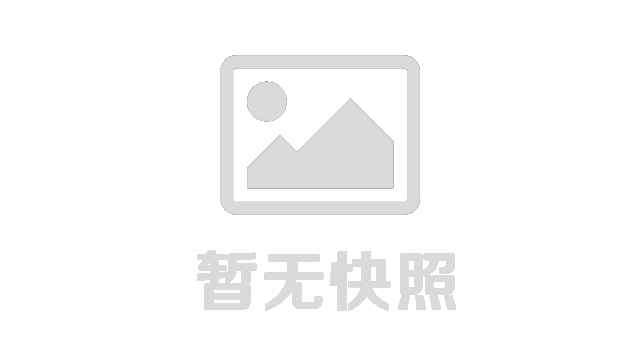
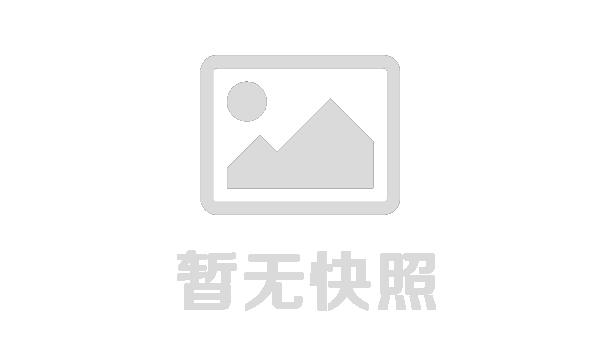
优化了云监控和云录播的默认快照，前端都用snap.png；

diff --git a/htdocs/wxapi/Tpl/default/Home/play.htm b/htdocs/wxapi/Tpl/default/Home/play.htm
@@ -33,13 +33,14 @@
         <div id="video-gallery" class="royalSlider videoGallery rsDefault">
           <volist name="my_play" id="vo">
           <notempty name='vo.record_id'>
-          <a class="rsImg rsHide" data-clicks="{{$vo.clicks}}" data-rsVideo="{{:__APP__}}/Home/show/type/vod/record_id/{{$vo.record_id}}" href="{{$my_web_tracker}}{{$vo.image_fdfs}}">
+          <a class="rsImg rsHide" data-clicks="{{$vo.clicks}}" data-rsVideo="{{:__APP__}}/Home/show/type/vod/record_id/{{$vo.record_id}}"  
+             <empty name='vo.image_fdfs'>href="/wxapi/public/images/snap.png"<else/>href="{{$my_web_tracker}}{{$vo.image_fdfs}}"</empty> >
             <div class="rsTmb">
               <div class="serial">
                 <span class="fa fa-play"></span>
               </div>
               <div class="cover">
-                <img src="{{$my_web_tracker}}{{$vo.image_fdfs}}_90x50" onerror="doErrVod();">
+                <img src="{{$my_web_tracker}}{{$vo.image_fdfs}}_90x50" onerror="doErrSnap();">
                 <span class="c-time"><i class="bg"></i><span>{{$vo.disptime}}</span></span>
               </div>
               <div class="headline">{{$vo.grade_type}}&nbsp;{{$vo.grade_name}}&nbsp;{{$vo.camera_name}}&nbsp;{{$vo.teacher_name}}&nbsp;{{$vo.title_name}}&nbsp;{{$vo.created}}</div>
@@ -49,13 +50,14 @@
             </div>
           </a>
           <else/>
-          <a class="rsImg rsHide" data-rsVideo="{{:__APP__}}/Home/show/type/live/camera_id/{{$vo.camera_id}}" href="{{$vo.image_snap}}">
+          <a class="rsImg rsHide" data-rsVideo="{{:__APP__}}/Home/show/type/live/camera_id/{{$vo.camera_id}}"
+             <empty name='vo.image_fdfs'>href="/wxapi/public/images/snap.png"<else/>href="{{$my_web_tracker}}{{$vo.image_fdfs}}"</empty> >
             <div class="rsTmb">
               <div class="serial">
                 <span class="fa fa-play"></span>
               </div>
               <div class="cover">
-                <img src="{{$my_web_tracker}}{{$vo.image_fdfs}}_90x50" onerror="doErrLive();">
+                <img src="{{$my_web_tracker}}{{$vo.image_fdfs}}_90x50" onerror="doErrSnap();">
               </div>
               <div class="headline">
                 {{$vo.school_name}} - {{$vo.grade_type}}&nbsp;{{$vo.grade_name}}&nbsp;{{$vo.camera_name}} - 
@@ -92,15 +94,8 @@
 
 <script>
 
-// 处理点播缩略图无法加载的问题...
-function doErrVod() {
-  var img = event.srcElement; // 获取事件对象...
-  img.src  = "/wxapi/public/images/default-90.png"; 
-  img.onerror = null; // 控制不要一直跳动
-}
-
-// 处理直播缩略图无法加载的问题...
-function doErrLive() {
+// 处理点播、直播缩略图无法加载的问题...
+function doErrSnap() {
   var img = event.srcElement; // 获取事件对象...
   img.src  = "/wxapi/public/images/snap.png"; 
   img.onerror = null; // 控制不要一直跳动

diff --git a/monitor/wxapi/Tpl/default/Monitor/play.htm b/monitor/wxapi/Tpl/default/Monitor/play.htm
@@ -73,13 +73,14 @@
         <div id="video-gallery" class="royalSlider videoGallery rsDefault">
           <volist name="my_play" id="vo">
           <notempty name='vo.record_id'>
-          <a class="rsImg rsHide" data-rsVideo="{{:__APP__}}/Monitor/show/type/vod/record_id/{{$vo.record_id}}" href="{{$my_web_tracker}}{{$vo.image_fdfs}}">
+          <a class="rsImg rsHide" data-rsVideo="{{:__APP__}}/Monitor/show/type/vod/record_id/{{$vo.record_id}}" 
+             <empty name='vo.image_fdfs'>href="/wxapi/public/images/snap.png"<else/>href="{{$my_web_tracker}}{{$vo.image_fdfs}}"</empty> >
             <div class="rsTmb">
               <div class="serial">
                 <span class="fa fa-play"></span>
               </div>
               <div class="cover">
-                <img src="{{$my_web_tracker}}{{$vo.image_fdfs}}_90x50" onerror="doErrVod();">
+                <img src="{{$my_web_tracker}}{{$vo.image_fdfs}}_90x50" onerror="doErrSnap();">
                 <span class="c-time"><i class="bg"></i><span>{{$vo.disptime}}</span></span>
               </div>
               <div class="headline">{{$vo.created}}</div>
@@ -92,13 +93,14 @@
             </div>
           </a>
           <else/>
-          <a class="rsImg rsHide" data-rsVideo="{{:__APP__}}/Monitor/show/type/live/camera_id/{{$vo.camera_id}}" href="{{$vo.image_snap}}">
+          <a class="rsImg rsHide" data-rsVideo="{{:__APP__}}/Monitor/show/type/live/camera_id/{{$vo.camera_id}}" 
+             <empty name='vo.image_fdfs'>href="/wxapi/public/images/snap.png"<else/>href="{{$my_web_tracker}}{{$vo.image_fdfs}}"</empty> >
             <div class="rsTmb">
               <div class="serial">
                 <span class="fa fa-play"></span>
               </div>
               <div class="cover">
-                <img src="{{$my_web_tracker}}{{$vo.image_fdfs}}_90x50" onerror="doErrLive();">
+                <img src="{{$my_web_tracker}}{{$vo.image_fdfs}}_90x50" onerror="doErrSnap();">
               </div>
               <div class="headline">
               通道{{$vo.camera_id}} - 
@@ -145,15 +147,8 @@
 // 获取网站地址...
 var siteurl="{{:__APP__}}";
 
-// 处理点播缩略图无法加载的问题...
-function doErrVod() {
-  var img = event.srcElement; // 获取事件对象...
-  img.src  = "/wxapi/public/images/default-90.png"; 
-  img.onerror = null; // 控制不要一直跳动
-}
-
-// 处理直播缩略图无法加载的问题...
-function doErrLive() {
+// 处理直播、点播缩略图无法加载的问题...
+function doErrSnap() {
   var img = event.srcElement; // 获取事件对象...
   img.src  = "/wxapi/public/images/snap.png"; 
   img.onerror = null; // 控制不要一直跳动

diff --git a/monitor/wxapi/Tpl/default/Monitor/index.htm b/monitor/wxapi/Tpl/default/Monitor/index.htm
@@ -66,7 +66,7 @@ layui.use(['flow','layer'], function(){
           // 分页单独懒加载，否则，每次都要全部懒加载...
           $("#page_"+page+" img.lazy").lazyload({
             effect : "fadeIn",
-            placeholder: "/wxapi/public/images/default.png"
+            placeholder: "/wxapi/public/images/snap.png"
           });
         },
         error: function(XMLHttpRequest, textStatus, errorThrown) {

diff --git a/htdocs/wxapi/Tpl/default/Home/index.htm b/htdocs/wxapi/Tpl/default/Home/index.htm
@@ -77,7 +77,7 @@ $(document).ready( function () {
   $(function() {
     $("img.lazy").lazyload({
       effect : "fadeIn",
-      placeholder: "/wxapi/public/images/default.png"
+      placeholder: "/wxapi/public/images/snap.png"
     });
   });
   // 注册窗口的滚动条函数...

diff --git a/htdocs/wxapi/Tpl/default/Home/subject.htm b/htdocs/wxapi/Tpl/default/Home/subject.htm
@@ -89,7 +89,7 @@ $(document).ready( function () {
   $(function() {
     $("img.lazy").lazyload({
       effect : "fadeIn",
-      placeholder: "/wxapi/public/images/default.png"
+      placeholder: "/wxapi/public/images/snap.png"
     });
   });
   // 注册窗口的滚动条函数...

diff --git a/htdocs/wxapi/Lib/Action/HomeAction.class.php b/htdocs/wxapi/Lib/Action/HomeAction.class.php
@@ -421,12 +421,6 @@ class HomeAction extends Action
       $my_nav = $this->getNavData(NAV_ACTIVE_LIVE, 0);
       $map['camera_id'] = $camera_id;
       $dbLive = D('LiveView')->where($map)->find();
-      // 快照地址无效，使用默认的快照；快照有效，使用快照动态缩略图...
-      if( strlen($dbLive['image_fdfs']) <= 0 ) {
-        $dbLive['image_snap'] = "/wxapi/public/images/snap.png";
-      } else {
-        $dbLive['image_snap'] = sprintf("%s%s", $theWebTracker, $dbLive['image_fdfs']);
-      }
       // 右侧第一条记录一定是直播...
       unset($map); $arrList[0] = $dbLive;
       // 开始设置模版参数信息...

diff --git a/monitor/wxapi/Lib/Action/MonitorAction.class.php b/monitor/wxapi/Lib/Action/MonitorAction.class.php
@@ -272,12 +272,6 @@ class MonitorAction extends Action
     $camera_id = $_GET['camera_id'];
     $map['camera_id'] = $camera_id;
     $dbCamera = D('LiveView')->where($map)->find();
-    // 快照地址无效，使用默认的快照；快照有效，使用快照动态缩略图...
-    if( strlen($dbCamera['image_fdfs']) <= 0 ) {
-      $dbCamera['image_snap'] = "/wxapi/public/images/snap.png";
-    } else {
-      $dbCamera['image_snap'] = sprintf("%s%s", $theWebTracker, $dbCamera['image_fdfs']);
-    }
     // 给通道模版赋值...
     $this->assign('my_camera', $dbCamera);
     // 右侧第一条记录一定是直播...
